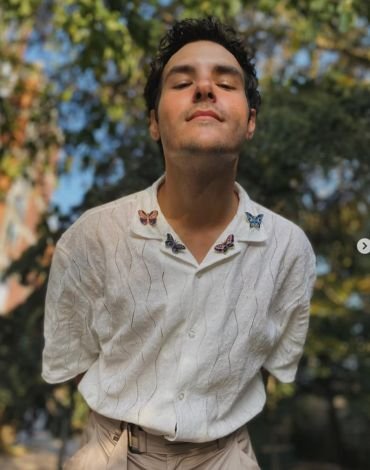
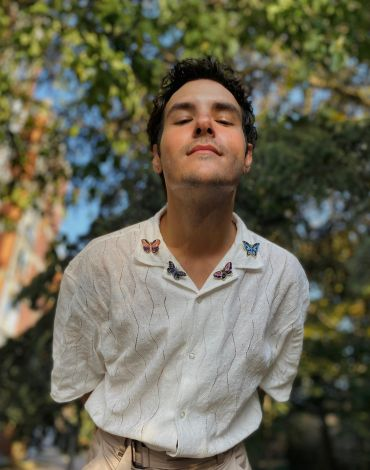
fix: updated team photo

diff --git a/src/container/team/index.js b/src/container/team/index.js
@@ -3,7 +3,7 @@ import {Container, Row, Col} from 'react-bootstrap'
 import SectionTitle from "../../components/SectionTitle";
 import Team from "../../components/team";
 import teams from '../../data/team'
-import testimonials from '../../data/testimonial'
+// import testimonials from '../../data/testimonial'
 
 const PersonalPortfolioTeam = () => {
     return (

diff --git a/src/container/service/index.js b/src/container/service/index.js
@@ -1,6 +1,5 @@
 import React from 'react';
 import {Container, Row, Col} from 'react-bootstrap';
-import serviceBg from '../../assets/images/bg/service-bg.jpg';
 import SectionTitle from "../../components/SectionTitle";
 import Service from "../../components/service";
 import services from '../../data/service'
